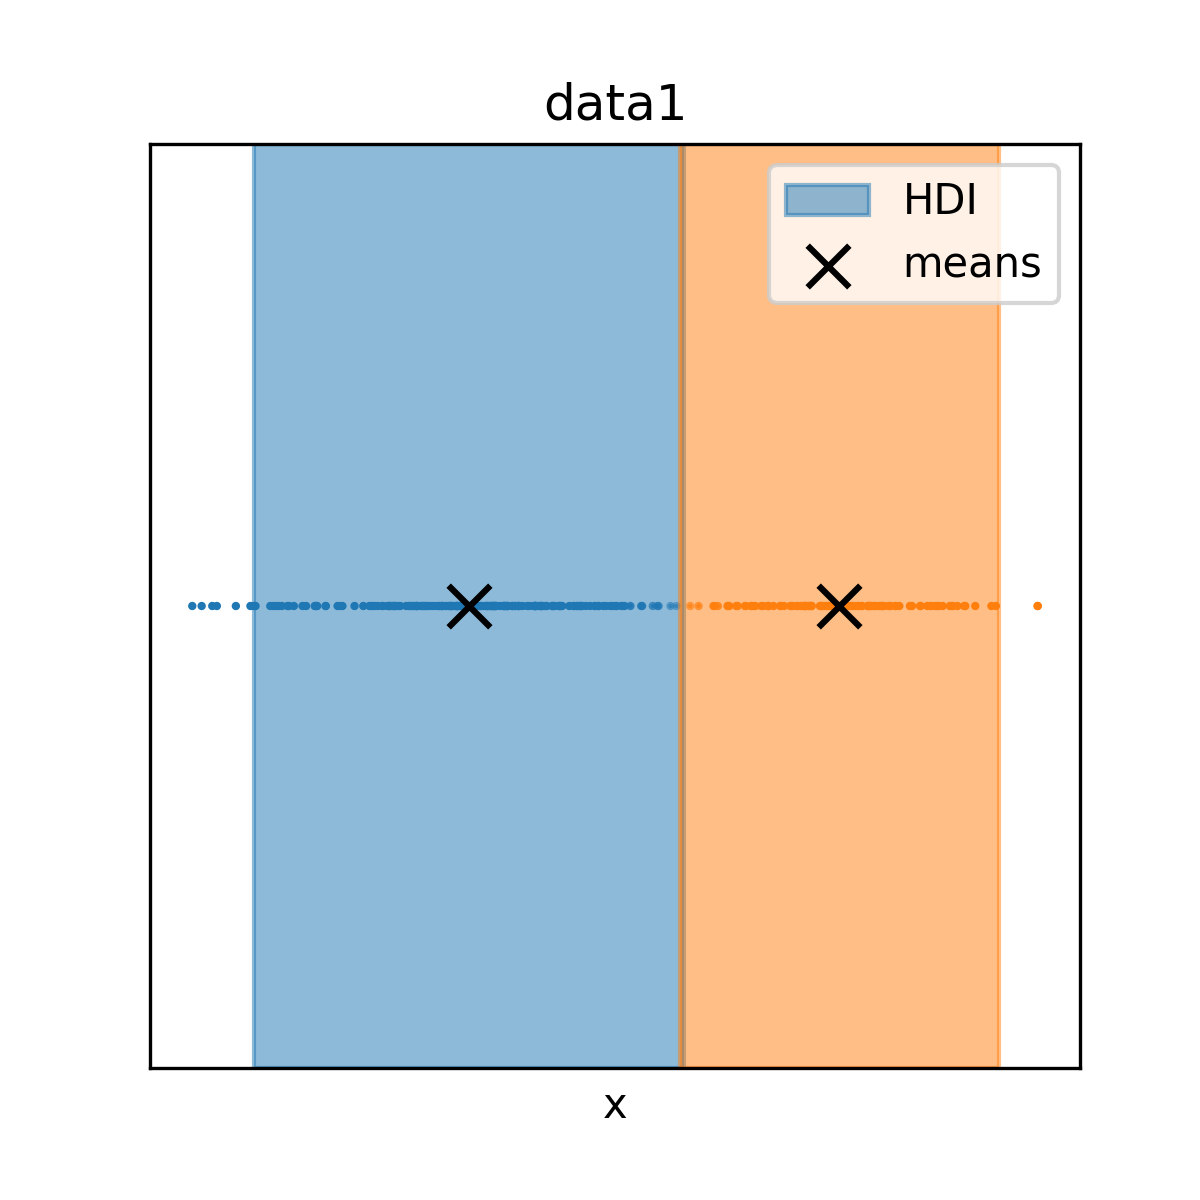
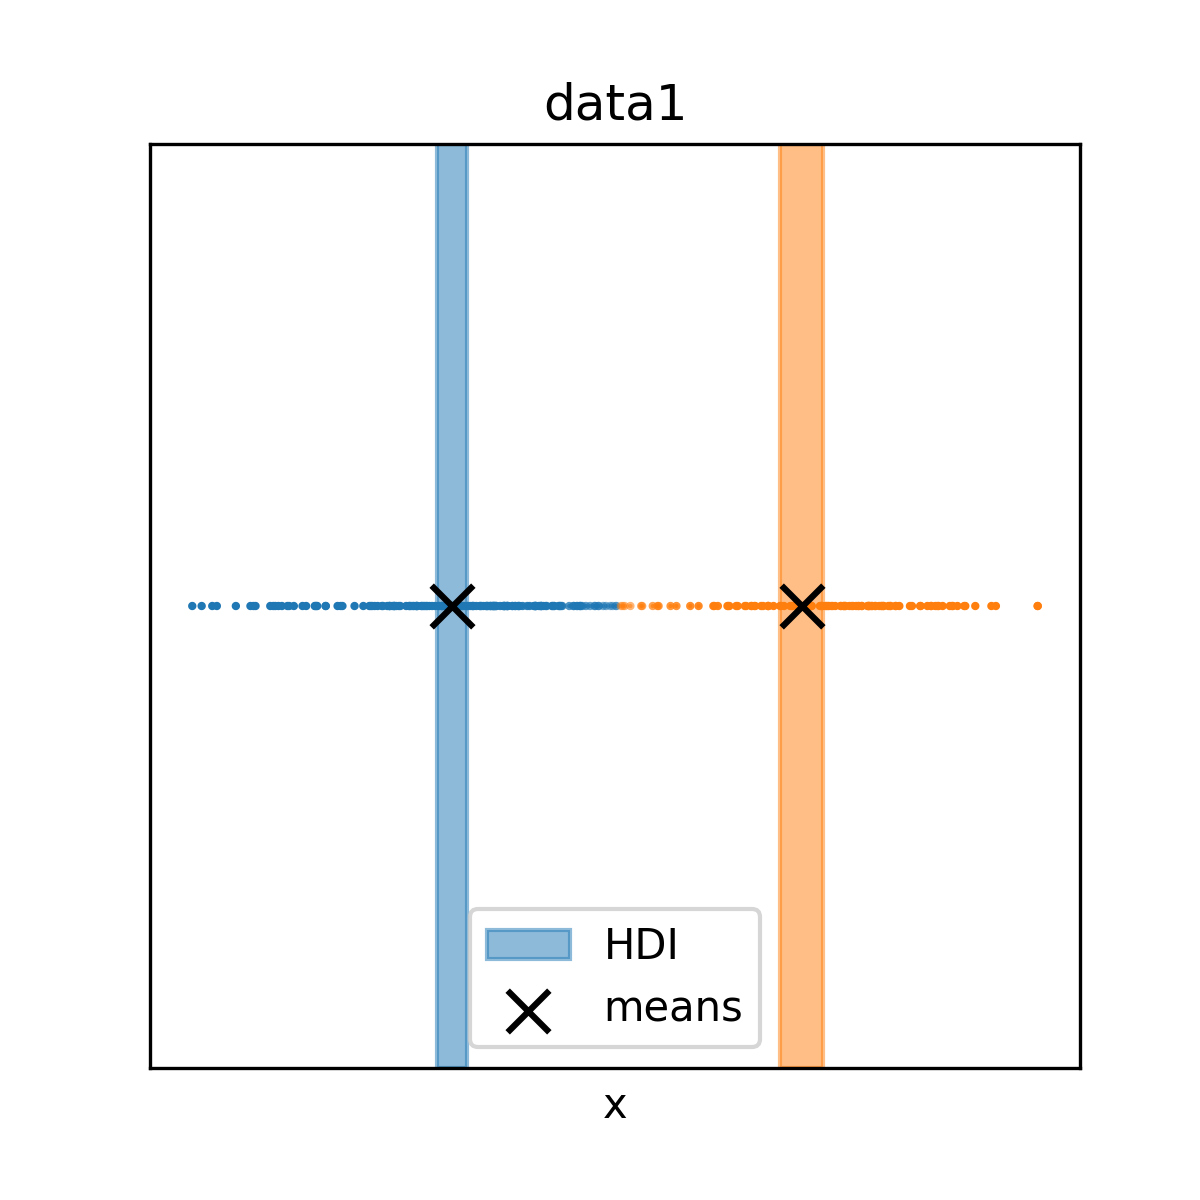
HDI算出修正

diff --git a/ex5/t_futagami/GMMVB.py b/ex5/t_futagami/GMMVB.py
@@ -241,11 +241,11 @@ class GMMVB:
                 marker="o",
             )
             z = 1.96  # 95% confidence interval
-            cov = la.pinv(self.nu[label] * self.W[label])
-            sigma = np.sqrt(cov[0, 0])
+            lambda_ = self.beta[label] * self.nu[label] * self.W[label] + np.spacing(1)
+            cov = np.sqrt(1 / lambda_[0, 0])
             hdi = (
-                self.m[label, 0] - z * sigma,
-                self.m[label, 0] + z * sigma,
+                self.m[label, 0] - z * cov,
+                self.m[label, 0] + z * cov,
             )
             height = 2
             y_min = -height / 2
@@ -317,7 +317,8 @@ class GMMVB:
         chi2_val = chi2.ppf(0.95, df=2)
         for order, label in enumerate(label_frequency_desc):
             # approximate covariance from posterior precision
-            cov = la.pinv(self.nu[label] * self.W[label])
+            lambda_ = self.beta[label] * self.nu[label] * self.W[label] + np.spacing(1)
+            cov = la.pinv(lambda_)  # (D, D)
             # eigen-decomposition
             eigvals, eigvecs = np.linalg.eigh(cov)
             idx_sort = eigvals.argsort()[::-1]
